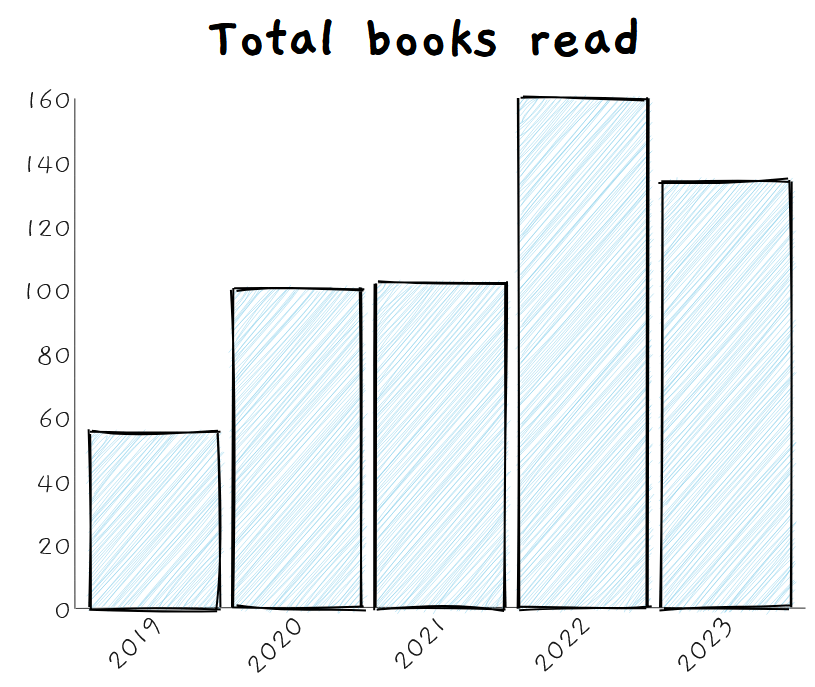
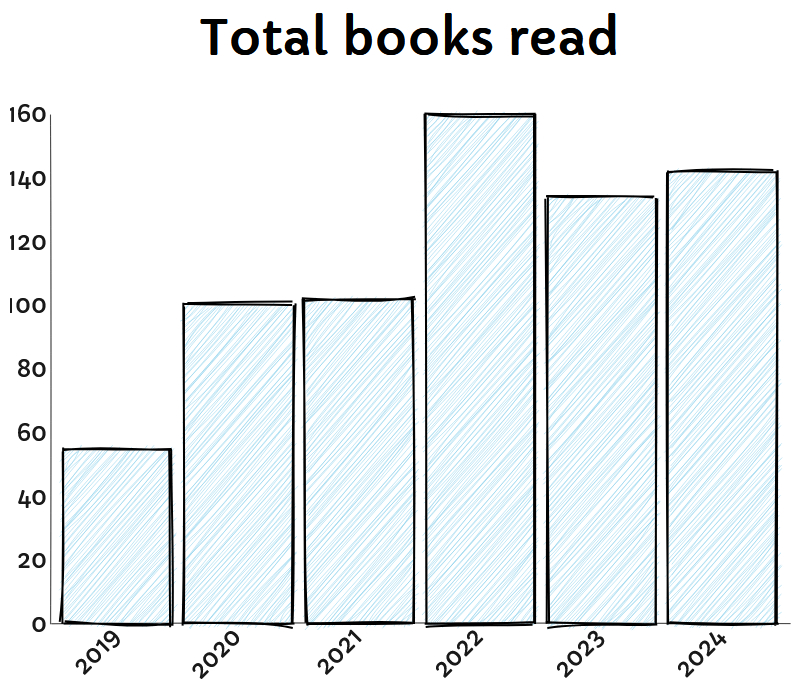
update fun with new books viz

diff --git a/fun.html b/fun.html
@@ -25,7 +25,7 @@
             reading habits</a></h3>
         <h6>
           <code><a href="https://github.com/ericayee/books-viz">code</a></code> |
-          2019–
+          2019–2025
         </h6>
         <div class="clip-image">
           <img style="width: 300px; border:2px solid #212121" src="files/booksviz.png" alt="bar chart of total books read 2019-2023" />
@@ -41,7 +41,7 @@
         <h3><img class="arrow-link" src="files/arrow.svg" /><a
             href="https://www.youtube.com/watch?v=cq6V52qSOjM">Arranging music covers</a></h3>
         <h6>
-          Jan 2024
+          Jan 2025
         </h6>
         <div class="clip-image">
           <img style="width: 300px; border:2px solid #212121" src="files/2024medley.jpg" alt="sheet music titled 2024 instrumental medley" />
